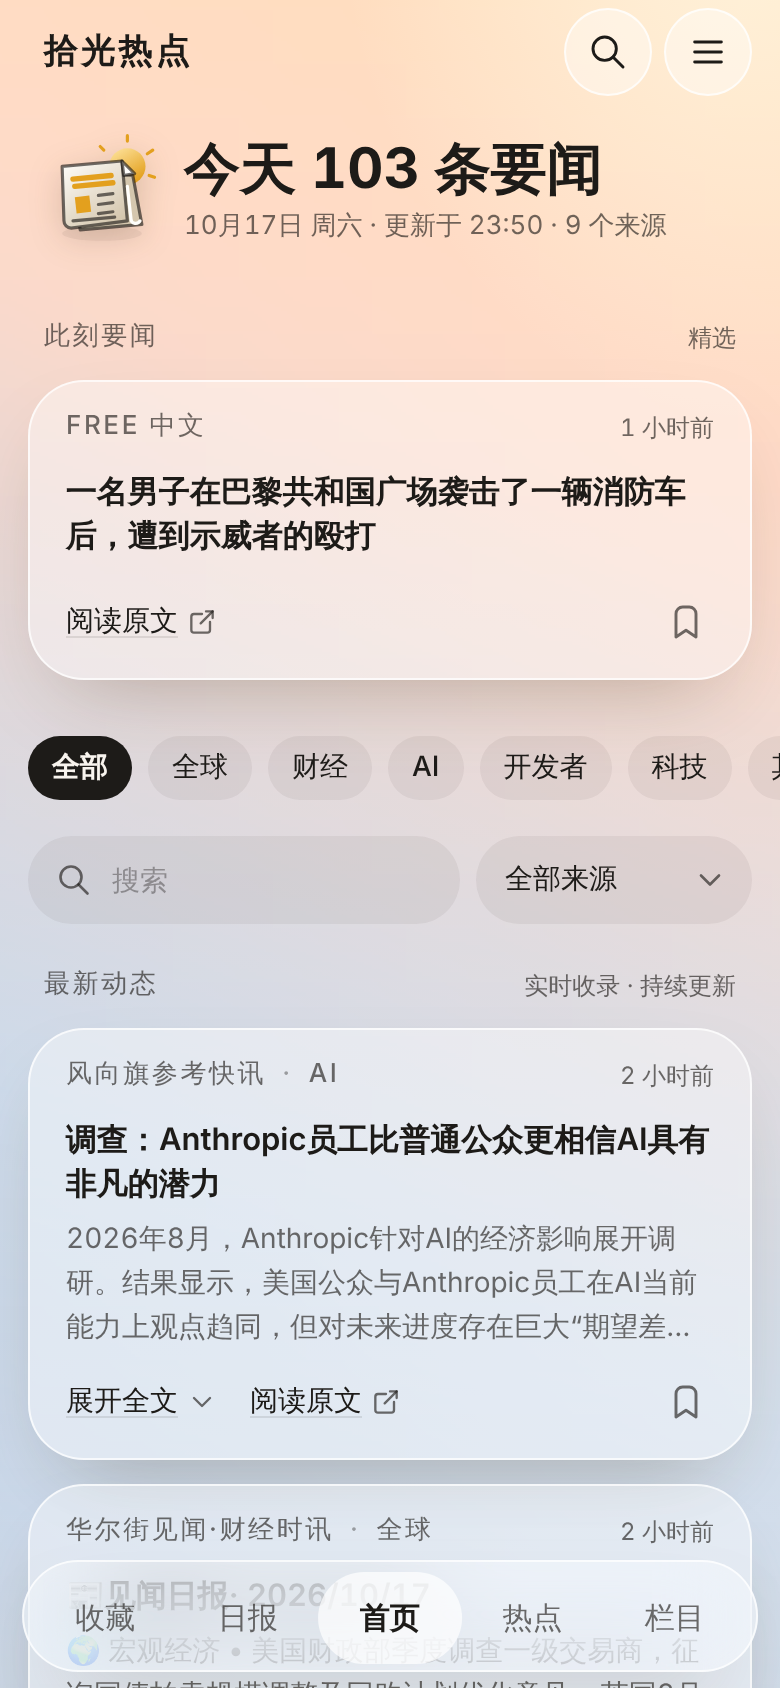
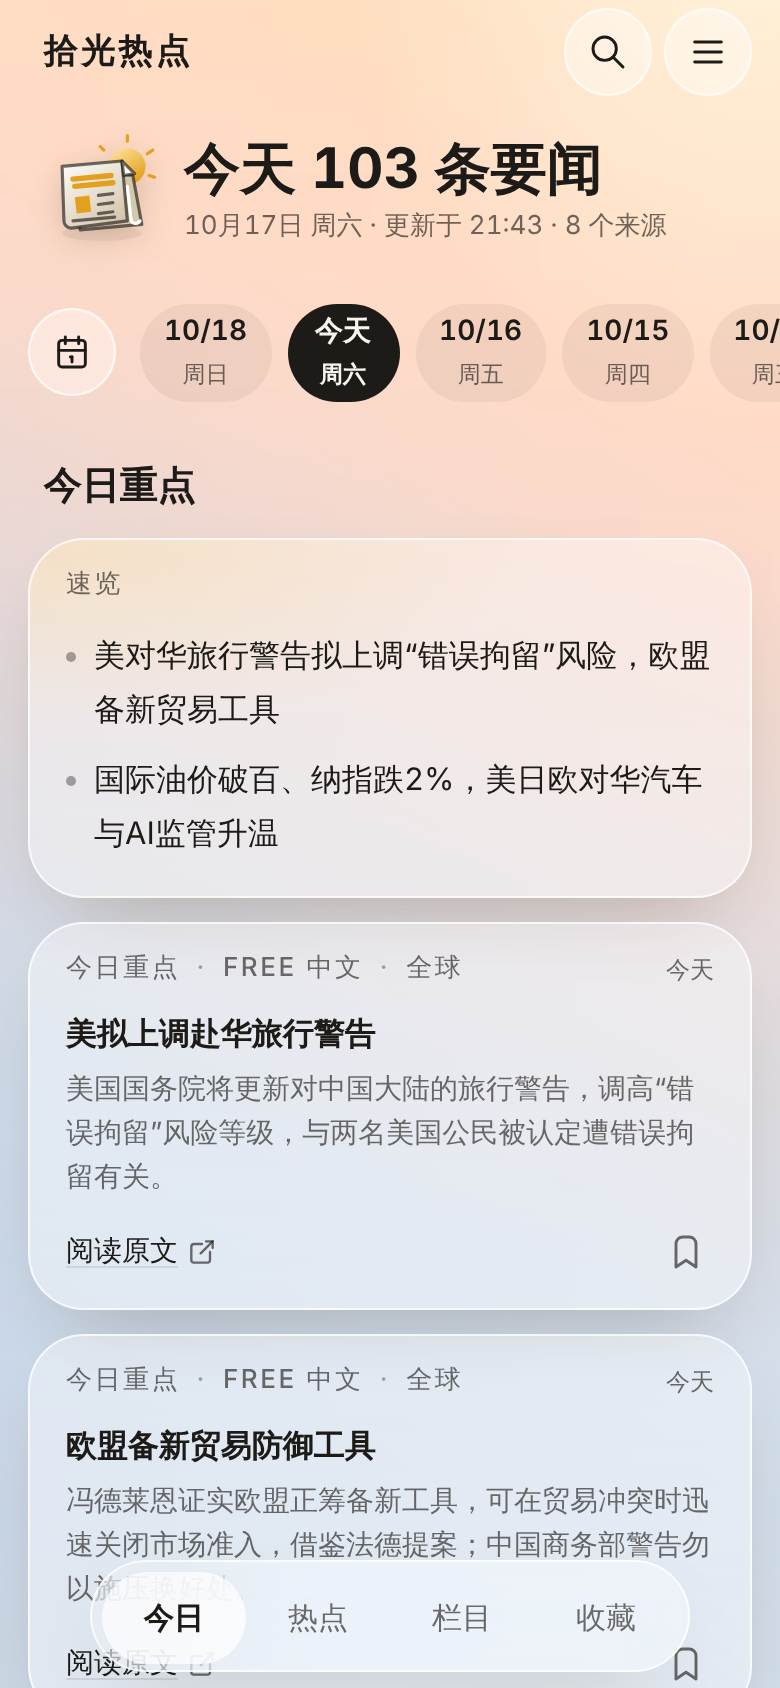
Docs and screenshot for 今日, 热点, 栏目 and feed sources
Claude-Session: https://claude.ai/code/session_01YEadMJhgKorNqJphqEG6W4

diff --git a/ARCHITECTURE.md b/ARCHITECTURE.md
@@ -1,18 +1,19 @@
 # 拾光热点 · 架构
 
-一条线：**来源 → 条目 → 页面**。每个渠道先变成同一种条目（`Item`），再由 5 个固定页面去取；没有为某个来源单独写的页面。接新渠道只动第一层：在 `sources.json` 加一项，按 `INGEST.md` 投递。
+一条线：**来源 → 条目 → 页面**。每个渠道先变成同一种条目（`Item`），再按时间（今日、热点）或按渠道、标签（栏目）去取；没有为某个来源单独写的页面。接新渠道只动第一层：在 `sources.json` 加一项，按 `INGEST.md` 投递。
 
 ## 代码分层
 
 | 位置 | 做什么 |
 | --- | --- |
-| `pipeline.py` | 入口：抓 TG → 清洗、分话题 → 热榜 → 建站。`main(now=None)` |
+| `pipeline.py` | 入口：抓 TG 和 RSS/YouTube → 清洗、分话题 → 热点 → 建站。`main(now=None)` |
 | `shiguang/config.py` | 读取并校验 `sources.json`，补默认值；兼容旧字段名 |
 | `shiguang/ingest/telegram.py` | 抓 t.me/s 公开页写入 `tg.db`，图片缓存在 `media/`（按消息时间保留 14 天） |
+| `shiguang/ingest/web.py` | RSS 2.0 / Atom（含 YouTube 频道）抓取解析，存进 `tg.db` 的 `entry` 表，首图缓存 14 天 |
 | `shiguang/ingest/feeds.py` | 找到各 inbox 来源的每一期、校验、压缩图片 |
 | `shiguang/ingest/adapters.py` | mail / world / x 三种旧格式转成统一格式（这些 bot 改写统一格式后删除） |
 | `shiguang/model.py` | `Item`，以及把 TG 消息和期刊条目变成 `Item` 的函数 |
-| `shiguang/enrich/` | `clean.py` 标题与正文清洗；`topics.py` 话题；`hot.py` 实时热榜；`rank.py` 首页排序 |
+| `shiguang/enrich/` | `clean.py` 标题与正文清洗；`topics.py` 标签；`hot.py` 热点（热度与按时间排序）；`rank.py` 当天排序 |
 | `shiguang/site/pages.py` | 每个页面一个函数：决定哪页放哪些条目 |
 | `shiguang/site/render.py` | 纯 HTML 组件，不读写文件；`icons.py` 图标；`light.py` 环境光 |
 | `shiguang/site/build.py` | 在临时目录建整站 → 公开版隐私检查 → 原子替换 `site/`；CSS/JS 用内容哈希命名 |
@@ -24,57 +25,65 @@
 
 ## 页面
 
-| 页面 | 底栏 | 内容 |
-| --- | --- | --- |
-| `favorites.html` 收藏 | 第 1 格 | 本机收藏，由 app.js 从 localStorage 呈现 |
-| `archive/` 日报 | 第 2 格 | 某一天：每个期刊来源的摘要块和前 3 条，加「看完整一期」链接；最后 TG 频道按话题分组 |
-| `index.html` 首页 | 第 3 格 | 此刻要闻 + 信息流；话题胶囊和来源选择是两个独立的筛选 |
-| `hot.html` 热点 | 第 4 格 | 上：最新一期今日重点（每晚 22:00 发布）；下：48 小时实时热榜前 10 |
-| `columns.html` 栏目 | 第 5 格 | 每日栏目（推特爆款、GitHub 热门、环球要闻；内网版含邮件精华），然后 TG 频道 |
-| `<id>/<date>.html` | 栏目 | 一个期刊来源的一期；`<id>/index.html` 是最新一期 |
+底栏 4 格：今日 / 热点 / 栏目 / 收藏，公开版和内网版相同。
 
-公开版和内网版底栏相同：收藏 / 日报 / 首页 / 热点 / 栏目，首页居中。来源页标亮「栏目」，今日重点的期刊页标亮「热点」。
+| 页面 | 内容 |
+| --- | --- |
+| `index.html` 今日 | 只放今天：顶部时光机（最近 7 天的日期条 + 日历面板）；今日重点（摘要和前 3 条）；此刻要闻；当天信息流，话题胶囊和来源选择两种筛选，「展开这一天全部」；最后各栏目当天的摘要和前 3 条。早上 6 点前另附昨天的前 10 条。 |
+| `archive/<date>.html` | 时光机里的某一天，和今日同一个模板，首条是当天热度最高的 |
+| `hot.html` 热点 | 最近 3 天热度过线的消息，按时间倒序，按小时分段；顶部 0–24 点时间轴，每小时一根热度柱，左右拖动跳到对应时段，拖过 0 点到前一天；列表滚动时时间轴跟着走 |
+| `columns.html` 栏目 | 「按渠道 / 按标签」切换（记在本机）。按渠道：每日简报、X、YouTube、RSS、电邮订阅、GitHub、Telegram、邮件，按 `platform` 分组。按标签：每个标签最近 3 天的条数 |
+| `tag/<slug>.html` | 一个标签最近 3 天，按天分组，可按来源筛选 |
+| `<id>/index.html` | TG 频道或 RSS/YouTube 来源：最近 3 天（至少 30 条），按天分组；期刊来源：最新一期 |
+| `<id>/<date>.html` | 期刊来源的一期 |
+| `favorites.html` 收藏 | 本机收藏，由 app.js 从 localStorage 呈现 |
 
-合并掉的旧地址保留为跳转页：`all.html` → 首页；`<TG 频道>/index.html` → `index.html?source=<频道>`；`hot-daily/index.html` → 热点。
+来源页和标签页标亮「栏目」，日期页和今日重点的期刊页标亮「今日」。
 
-首页筛选：`?source=` 预选来源，`?topic=` 预选话题。首页信息流每个来源有上限（见下），为了让按来源筛选时不只剩几条，页面还带上每个 TG 频道最近 30 条、每个期刊最新一期的全部条目，标 `data-more` 并隐藏，只有选了话题、来源或输入搜索词时才参与显示。
+合并掉的旧地址保留为跳转页：`all.html`、`archive/index.html`、`hot-daily/index.html` → 今日。
+
+今日筛选：`?source=` 预选来源，`?topic=` 预选话题。信息流每个来源有上限（见下），当天其余条目标 `data-more` 并隐藏，选了筛选、搜索或点「展开这一天全部」时才显示。
 
 ## 规则
 
-- **话题**：所有来源共用 `sources.json` 的 `topics`（全球、财经、AI、开发者、科技，其余为「其他」）。条目自带 `topic` 就用它；否则先看标题、再看全文，按顺序取第一个匹配的正则；都不匹配用来源的 `topic`（如 GitHub 热门为「开发者」）；再不行是「其他」。「其他」不显示在卡片上。
-- **首页排序**：分数 = `home.weight` / (1 + 消息年龄小时数 / 24)。每个来源按分数取 `home.cap` 条（TG 默认 4，期刊默认 8），按轮次混排，每轮每来源最多一条。首条为此刻要闻。
-- **实时热榜**：48 小时内的 TG 消息，分数 = 报道的频道数 × 4 + `hot.keywords` 命中数 + 篇幅加分，近似重复合并，取前 10。
-- **顺序**：来源的 `order` 同时决定日报、栏目页、菜单和来源选择里的顺序（今日重点 0、邮件精华 10、环球要闻 20、推特爆款 30、GitHub 热门 40、TG 频道 50 起）。
+- **标签**：所有来源共用 `sources.json` 的 `topics`：全球、财经、AI、科技、数码、汽车、开发者、社会、娱乐，其余为「其他」。条目自带 `topic` 就用它；否则先看标题、再看全文，按顺序取第一个匹配的正则；都不匹配用来源的 `topic`（如 GitHub 热门为「开发者」）；再不行是「其他」。「其他」不显示在卡片上。
+- **当天排序**：分数 = `home.weight` / (1 + 消息年龄小时数 / 24)。每个来源按分数取 `home.cap` 条（TG 默认 4，期刊默认 8），按轮次混排，每轮每来源最多一条。首条：今天是最新的一条热点，往日是当天热度最高的一条；没有热点时用排序第一条。
+- **热点**：同一件事（12 小时内文字相近）只算一次，记在第一次报道上。热度 = 报道的频道数 × 4 + `hot.keywords` 命中数 + 篇幅加分（最多 2）；热度 ≥ 6 入选，两个以上频道报道的一定入选。卡片标「N 个频道」。
+- **顺序**：来源的 `order` 决定栏目页、菜单和来源选择里的顺序（今日重点 0、邮件精华 10、环球要闻 20、推特爆款 30、GitHub 热门 40、TG 频道 50 起）。
 
 ## sources.json
 
 ```json
 {
-  "topics": {"全球": "正则", "AI": "正则"},
+  "topics": [{"name": "AI", "slug": "ai", "pattern": "正则"}],
   "hot": {"source": "hot-daily", "keywords": ["美联储"]},
-  "sources": [{"id": "x", "type": "inbox", "name": "推特爆款", "visibility": "public", "order": 30}]
+  "sources": [{"id": "x", "type": "inbox", "name": "推特爆款", "visibility": "public", "platform": "x", "order": 30}]
 }
 ```
 
+`topics` 的顺序就是筛选胶囊和匹配的顺序；`slug` 是标签页地址。`hot.source` 指定放在今日顶部的期刊（今日重点）。
+
 | 字段 | 说明 |
 | --- | --- |
-| `id` `name` `type` `visibility` | 必填。`type` 为 `telegram`（实时）或 `inbox`（期刊）；`visibility` 为 `public` 或 `private` |
+| `id` `name` `type` `visibility` | 必填。`type`：`telegram`（TG 频道）、`feed`（RSS/YouTube）、`inbox`（期刊投递）；`visibility`：`public` 或 `private` |
+| `platform` | 栏目「按渠道」的分组：brief / x / youtube / rss / newsletter / github / telegram / mail。默认 TG 为 telegram、feed 为 rss、期刊为 brief |
+| `url` | feed 来源的地址；YouTube 用 `https://www.youtube.com/feeds/videos.xml?channel_id=<频道 ID>` |
 | `icon` | 状态图标：home / hot / all / archive / mail / world / x / code，默认 all |
-| `order` | 顺序，默认 TG 50、期刊 45 |
-| `home` | `{"weight": 1, "cap": 4或8}`，首页权重和条数，`cap: 0` 表示不进首页 |
-| `lead` `note` | 来源页打头的一句话（`{count}` 换成条目数）和小字说明 |
-| `topic` | 匹配不到话题时用的默认话题 |
+| `order` | 顺序，默认 TG 和 feed 50、期刊 45 |
+| `home` | `{"weight": 1, "cap": 4或8}`，当天信息流的权重和条数，`cap: 0` 表示不进信息流 |
+| `lead` `note` | 期刊来源页打头的一句话（`{count}` 换成条目数）和小字说明 |
+| `topic` | 匹配不到标签时用的默认标签 |
 | `reading` | `true` 时正文用纸面和阅读字号切换（邮件精华） |
 | `channel` | TG 频道名 |
 | `adapter` `directory` `filename` `env` | 期刊来源的投递位置和格式，见 `INGEST.md` |
 
-旧字段 `categories`、`daily_order`、`nav.order`、`home_weight`、`home_cap` 仍能读取；`color`、`nav.enabled`、`nav.tabs`、`nav.favorites` 已不再使用。
+旧写法 `topics: {名称: 正则}`、`categories`、`daily_order`、`nav.order`、`home_weight`、`home_cap` 仍能读取；`color`、`nav.enabled`、`nav.tabs`、`nav.favorites` 已不再使用。
 
 ## 两种模式与数据流
 
-公开版（GitHub Actions 每小时，`.github/workflows/hourly.yml`）：
+公开版（GitHub Actions 每 30 分钟，`.github/workflows/hourly.yml`；定时任务常晚几分钟）：
 
-1. 抓取配置中 public 的 TG 频道，按 `(channel, id)` 写入 `tg.db`，配图进 `media/`（Actions cache 保存）。
+1. 抓取配置中 public 的 TG 频道和 RSS/YouTube 来源，写入 `tg.db`，配图进 `media/`（Actions cache 保存）。
 2. 期刊只从仓库的 `public-feeds/<id>/<date>/feed.json` 读取。
 3. 建站后检查：不得出现 private 来源的目录、名称或正文，以及「邮件」字样；通过后部署 Pages。
 
@@ -83,15 +92,17 @@
 1. `sync.sh` 取共用锁；工作区干净时 `pull --rebase --autostash`。
 2. `publish_public.py` 只处理 public 期刊：转换、压图、原子写 JSON，保留 14 天，有变化才提交推送 `public-feeds/`。
 3. 内网构建包含 public 与 private，本机原始目录优先，其次 `/workspace/feeds-inbox`，最后 `public-feeds`。
-4. `mailbuild.py`（`inbox_sync.sh` / `mail_sync.sh`）只重建期刊来源页，首页等保持上次完整构建的快照。
+4. `mailbuild.py` 或 `python3 -m shiguang.site.build`（`inbox_sync.sh` / `mail_sync.sh`）只重建期刊来源页，今日等页面保持上次完整构建的快照。
 5. 本机 `tg.db` 不提交。
 
 ## 添加来源
 
 - **TG 频道**：加一项 `type: "telegram"`，填 `id`、`channel`、`name`、`visibility`。
+- **RSS / YouTube**：加一项 `type: "feed"`，填 `id`、`name`、`url`、`visibility`，YouTube 加 `"platform": "youtube"`。下一次构建开始抓取。
+- **电邮订阅（Newsletter）**：走期刊投递，`platform: "newsletter"`；本机把邮件整理成 feed.json 后投递。
 - **期刊**：加一项 `type: "inbox"`、`adapter: "native"`，按 `INGEST.md` 原子写入 feed.json 和图片。本机先跑 `python3 validate_feed.py <id>`，public 内容经 `publish_public.py` 进入仓库后，Actions 才能读到。
 
-不需要改代码：有数据就自动进入首页、日报、栏目和菜单；没有数据不生成入口。
+不需要改代码：有数据就自动进入今日、标签、栏目和菜单；没有数据不生成入口。
 
 ## 本地运行
 
@@ -110,7 +121,7 @@
 - **图标**：`shiguang/site/icons.py` 两套，每页输出一次 sprite。功能图标是 Tabler Icons 3.48.0 线性图标（线宽 1.75，路径原样取自官方包，许可证见 `LICENSES/tabler-icons.txt`）；状态图标是本站原有的立体插画（打头 58、栏目卡 22），渐变只定义一次。
 - **顶栏**：本身没有底色；滚过 30 后顶边（`edge`）淡入、中间出现当前页名。话题胶囊吸顶时接上同样的顶边。
 - **底栏**：居中的胶囊，只有字，不放图标，每格 72×46、字 15/20，当前项亮玻璃；换页时亮玻璃用不回弹的弹簧滑到新位置，文字始终在它上面。电脑上改为顶栏里的玻璃切换（`g-seg`）。
-- **金色**只表示「新」「今天」「进行中」：一小时内的条目带「新」，今天的日报日期带「今天」，下拉刷新时的转圈是金色。不当字色、不做装饰。
+- **金色**只表示「新」「今天」「进行中」：一小时内的条目带「新」，时光机里的今天带金色圆点，下拉刷新时的转圈是金色。不当字色、不做装饰。
 - **品牌**：顶栏只放产品名文字，不放 logo；来源不再各配一种颜色。
 - **字**：只用系统字体；字重只用 400/500/600/700；只有卡片小标题（`section`）和顶栏产品名（`brand`）有字距。`ink-3` 只给序号、箭头、占位。
 - **动效**：叠化和滑动按规范时长（光 900、顶边 250、照片 240），切换类用不回弹的弹簧；系统开启「减弱动态效果」时全部直接到位，「减弱透明度」时毛玻璃换成不透明的 `page`。网页不做振动；底栏不随滚动隐藏。

diff --git a/README.md b/README.md
@@ -1,13 +1,13 @@
 # 拾光热点
 
-多来源资讯聚合站：Telegram 频道、推特爆款、GitHub 热门、环球要闻、今日重点等，每小时更新。
+多来源资讯聚合站：Telegram 频道、推特爆款、GitHub 热门、环球要闻、今日重点，以及 RSS / YouTube，每 30 分钟更新。
 
 - 线上版：https://kwinweng.github.io/tg-digest/
-- 页面：收藏 / 日报 / 首页 / 热点 / 栏目。所有来源先变成同一种条目，再由这 5 个页面去取。
-- 页面不在仓库里：GitHub Actions 每小时运行 `pipeline.py` 生成 `site/` 并部署到 Pages。
+- 页面：今日（含时光机）/ 热点（24 小时时间轴）/ 栏目（按渠道、按标签）/ 收藏。所有来源先变成同一种条目，再由页面按时间、渠道或标签去取。
+- 页面不在仓库里：GitHub Actions 每 30 分钟运行 `pipeline.py` 生成 `site/` 并部署到 Pages。
 - 代码在 `shiguang/`（收内容 → 统一 → 加工 → 出页），样式和脚本在 `web/`，工具在 `tools/`，测试在 `tests/`。
 - 架构、页面规则和 `sources.json` 字段：`ARCHITECTURE.md`；投递新内容：`INGEST.md`。
 - 设计规范：「光」视觉规范 https://claude.ai/artifact/R2fskGqeaA8ozH9e7BHfNE ，对应关系见 `ARCHITECTURE.md` 的「视觉规范」。
 - 本地预览：`NO_FETCH=1 python3 pipeline.py`，然后打开 `site/index.html`。
 
-`screenshot.png` 是首页的手机端截图。
+`screenshot.png` 是「今日」的手机端截图。
